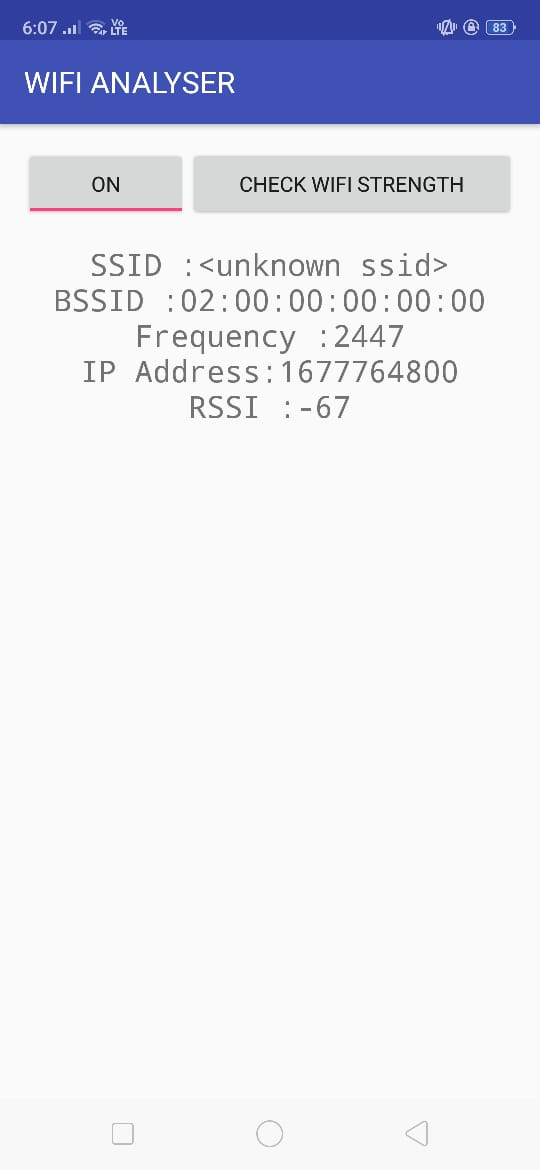
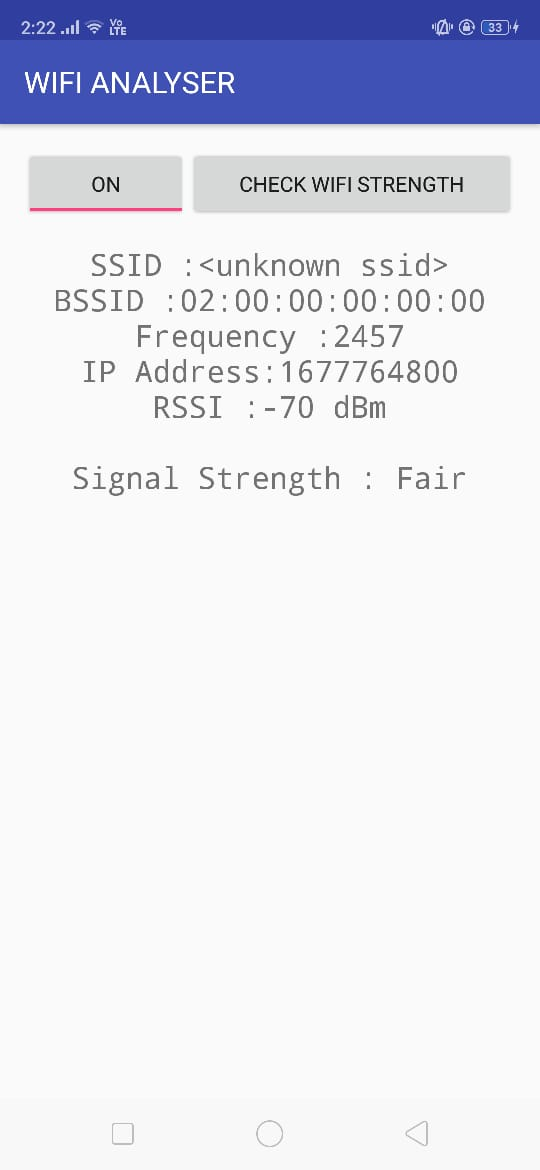
show signal strength

diff --git a/app/src/main/java/com/example/kushal/wifianalyser/MainActivity.java b/app/src/main/java/com/example/kushal/wifianalyser/MainActivity.java
@@ -60,7 +60,13 @@ public class MainActivity extends AppCompatActivity {
             if(String.valueOf(wifiInfo.getSupplicantState()).equals("COMPLETED")){
                 String content= "SSID :"+wifiInfo.getSSID()+"\nBSSID :"+wifiInfo.getBSSID();
                 //get Frequency will only on specific versions of android
-                content=content+"\nFrequency :"+wifiInfo.getFrequency()+"\nIP Address:"+wifiInfo.getIpAddress()+"\nRSSI :"+wifiInfo.getRssi();
+                content=content+"\nFrequency :"+wifiInfo.getFrequency()+"\nIP Address:"+wifiInfo.getIpAddress();
+
+                int ss=wifiInfo.getRssi(); // get signal strength
+                content=content+"\nRSSI :"+ss+" dBm\n\n";
+
+                String status=getStatus(ss);
+                content=content+"Signal Strength : "+status;
                 tv.setText(content);
             }else{
                 tv.setText("Connect to a network!");
@@ -68,5 +74,12 @@ public class MainActivity extends AppCompatActivity {
         }else{
             tv.setText("Enable WIFI first!");
         }
+    }
+
+    public String getStatus(int DBm){
+        if(DBm >= -50) return "Excellent";
+        else if (DBm < -50 && DBm >= -60) return "Good";
+        else if (DBm < -60 && DBm >= -70) return "Fair";
+        else return "Poor";
     }
 }
